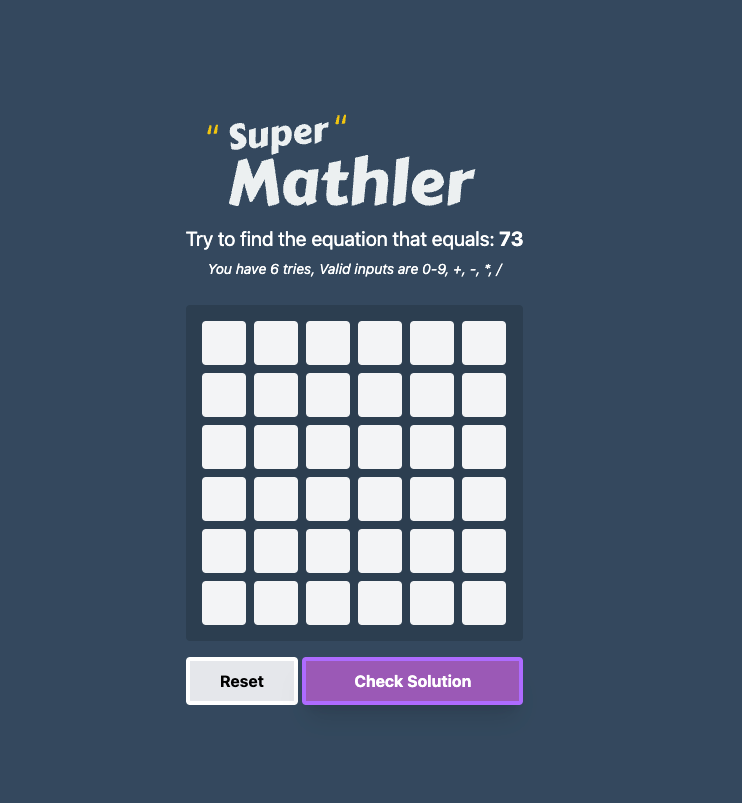
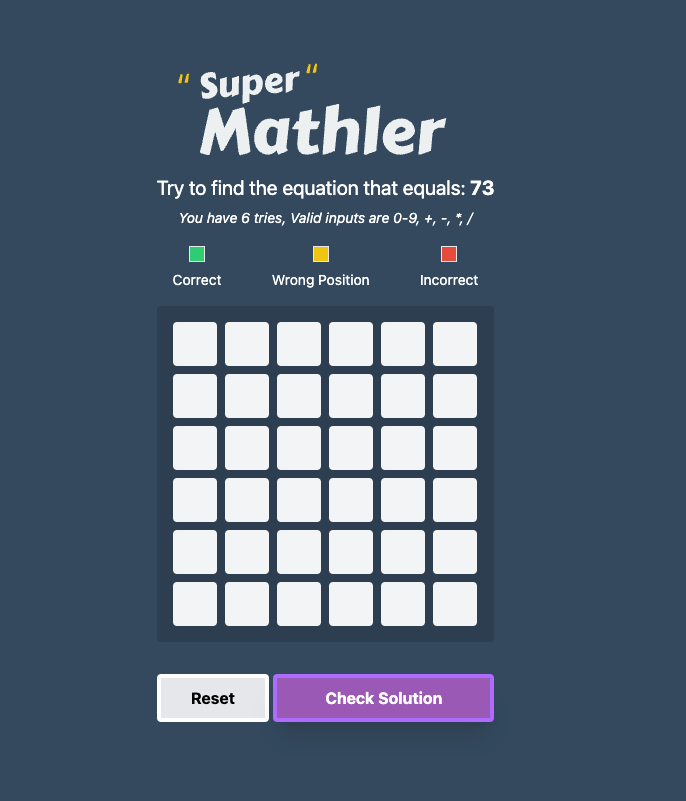
feat: add color code key to help user understand cell color meanings

Changed region(s): [[0.2143, 0.0936, 0.7347, 0.7803], [0.2143, 0.8115, 0.7347, 0.9051], [0.4286, 0.0624, 0.4592, 0.0936]]

diff --git a/src/components/ColorCodeKey.tsx b/src/components/ColorCodeKey.tsx
@@ -1,0 +1,30 @@
+import clsx from "clsx";
+
+interface ColorCode {
+  color: string;
+  description: string;
+}
+
+export function ColorCodeKey() {
+  const colorCodes: ColorCode[] = [
+    { color: "bg-emerald", description: "Correct" },
+    { color: "bg-sun-flower", description: "Wrong Position" },
+    { color: "bg-alizarin", description: "Incorrect" },
+  ];
+
+  return (
+    <div
+      className={"flex items-center justify-between px-4 text-sm text-white"}
+    >
+      {colorCodes.map((colorCode) => (
+        <div
+          key={colorCode.description}
+          className={"flex flex-col items-center justify-center gap-2"}
+        >
+          <div className={clsx("h-4 w-4 border", colorCode.color)}></div>
+          <span>{colorCode.description}</span>
+        </div>
+      ))}
+    </div>
+  );
+}

diff --git a/src/components/MathlerRenderer.tsx b/src/components/MathlerRenderer.tsx
@@ -8,6 +8,7 @@ import {
 import clsx from "clsx";
 import { useStore } from "../store/store";
 import { RulesExplanation } from "./RulesExplanation";
+import { ColorCodeKey } from "./ColorCodeKey";
 
 interface Props {
   target?: { result: number; solution: Solution };
@@ -102,8 +103,10 @@ export function MathlerRenderer({
   }
 
   return (
-    <div>
+    <div className={"mt-3 flex flex-col gap-4 "}>
       <RulesExplanation engine={engine} />
+
+      <ColorCodeKey />
 
       <div className={"flex flex-col gap-2 rounded bg-midnight p-4"}>
         {engineCells.map((row, rowIndex) => (

diff --git a/__tests__/component/ColorCodeKey.test.tsx b/__tests__/component/ColorCodeKey.test.tsx
@@ -1,0 +1,20 @@
+/**
+ * @jest-environment jsdom
+ */
+
+import React from "react";
+import { render, screen } from "@testing-library/react";
+import "@testing-library/jest-dom";
+import { ColorCodeKey } from "../../src/components/ColorCodeKey";
+
+describe("<ColorCodeKey />", () => {
+  it("should display to color codes and descriptions", () => {
+    render(<ColorCodeKey />);
+
+    screen.getByText("Correct");
+
+    screen.getByText("Wrong Position");
+
+    screen.getByText("Incorrect");
+  });
+});

diff --git a/src/components/RulesExplanation.tsx b/src/components/RulesExplanation.tsx
@@ -7,7 +7,7 @@ interface Props {
 
 export function RulesExplanation({ engine }: Props) {
   return (
-    <div className={"mb-6 mt-3 text-center text-xl text-white"}>
+    <div className={"text-center text-xl text-white"}>
       <div data-testid={"rules-explanation-heading"}>
         Try to find the equation that equals: <b>{engine.getResult()}</b>
       </div>
